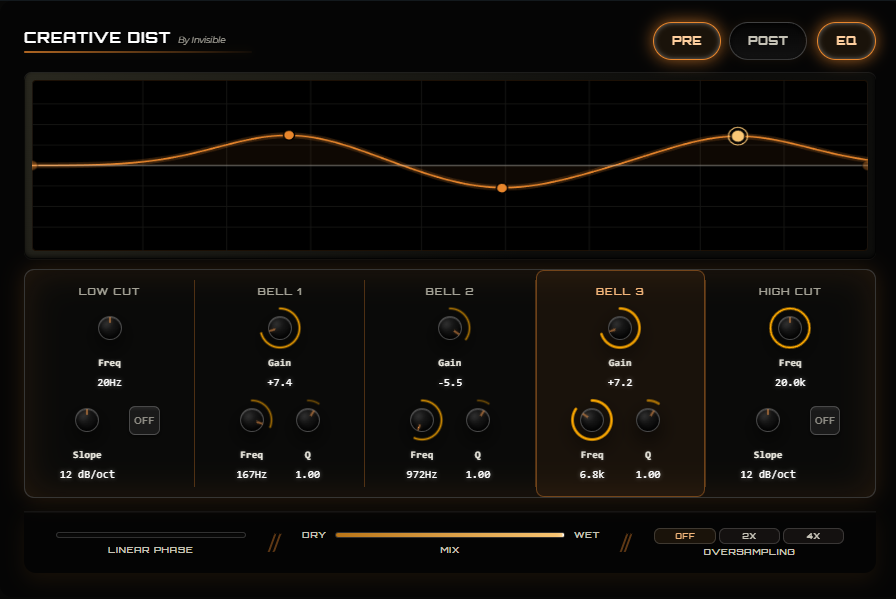
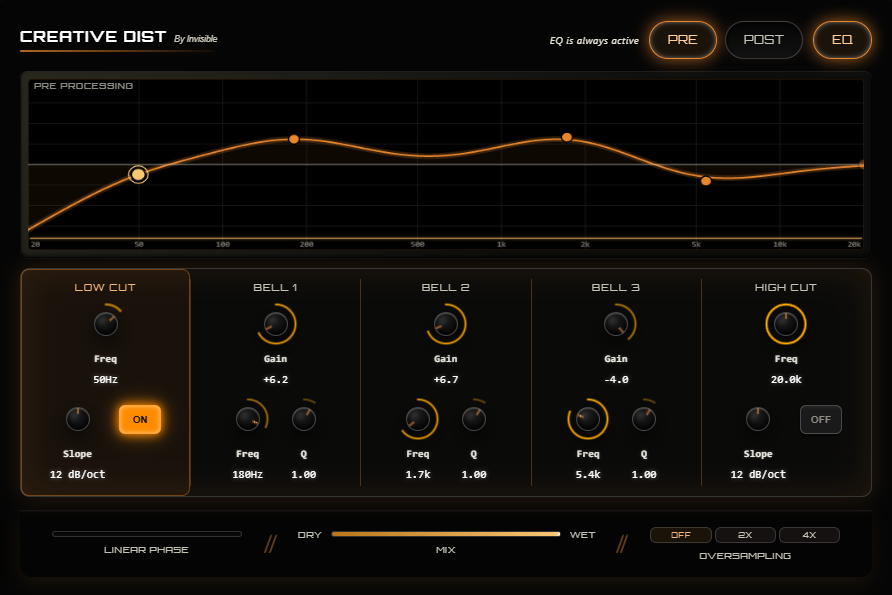
Replace EQ screenshot with a clearer capture showing the frequency curve

diff --git a/creative-dist.html b/creative-dist.html
@@ -282,7 +282,7 @@
     </div>
     <div class="feature-visual reveal-up">
       <div class="glass-panel gui-crop" style="aspect-ratio:896/599;width:100%;max-width:560px;margin:0 auto;">
-        <img src="assets/img/gui-eq.png" alt="5-band EQ view in Creative Dist, Bell 3 focused" loading="lazy"
+        <img src="assets/img/gui-eq.png?v=2" alt="5-band EQ view in Creative Dist, Pre mode, Low Cut focused" loading="lazy"
              style="width:100%;left:0;height:100%;top:0;">
       </div>
     </div>
